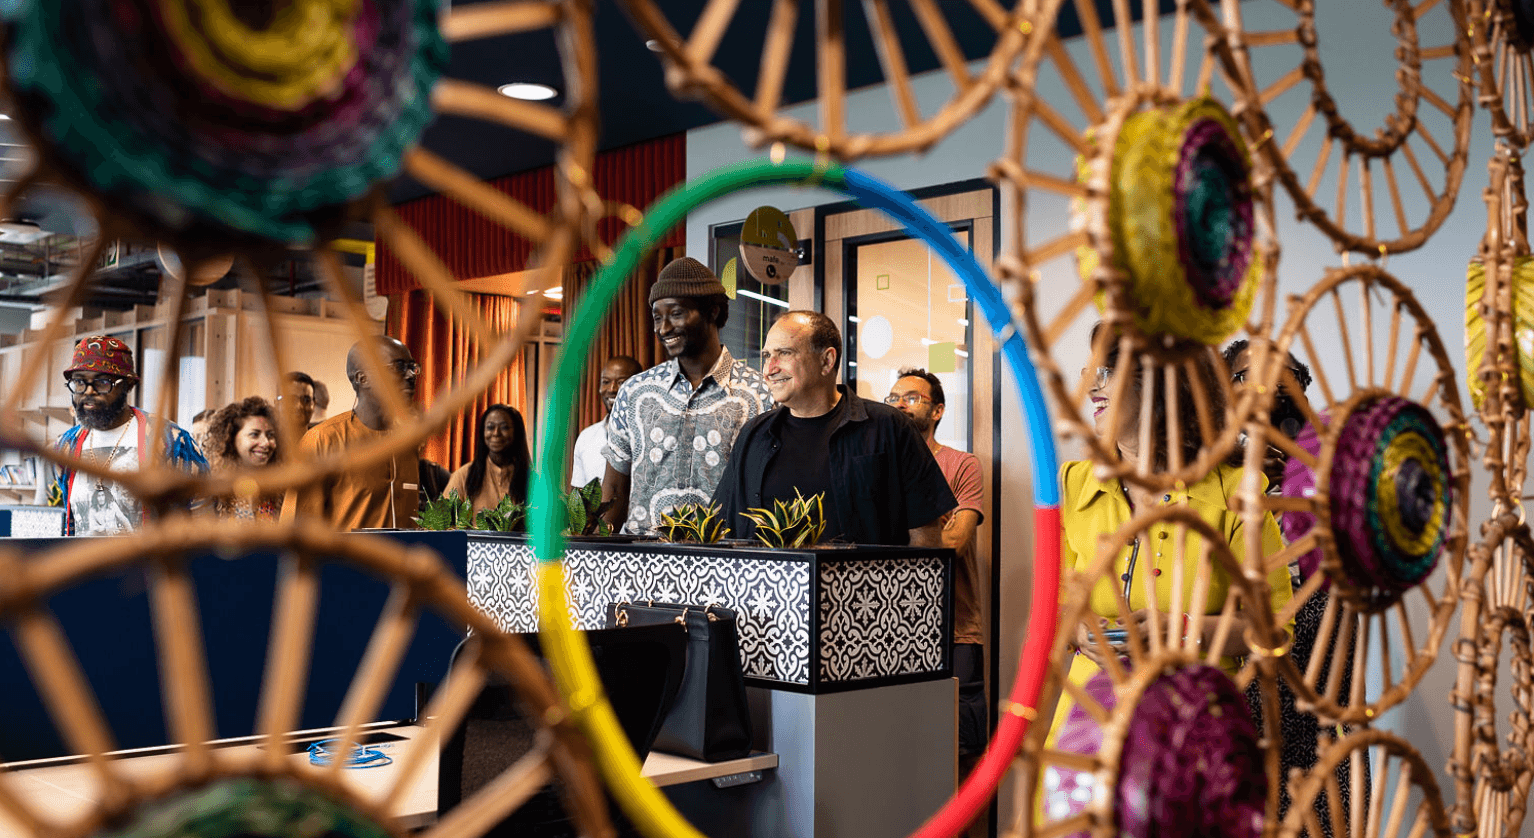
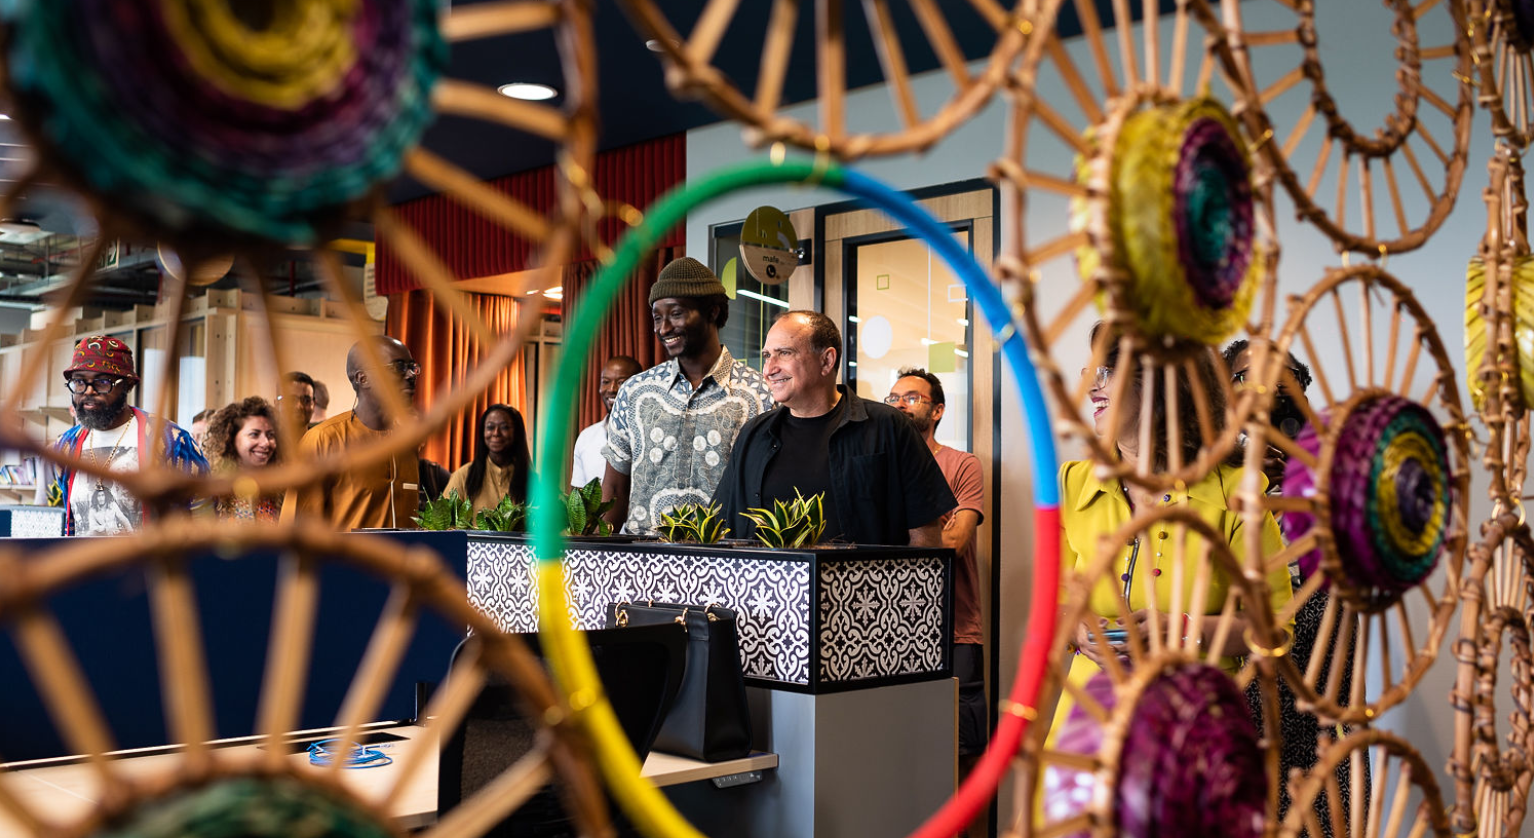
Restore crisp image quality and refine hero assets

diff --git a/app/page.tsx b/app/page.tsx
@@ -4,10 +4,8 @@ import Image from "next/image";
 import { useEffect, useRef, useState } from "react";
 
 const HERO_IMAGES = [
-  { src: "/hero%202.avif", alt: "Crowd at summit event", position: "50% 42%" },
   { src: "/hero%205.jpg", alt: "Audience and stage lighting at summit", position: "50% 40%" },
   { src: "/hero%206.png", alt: "Summit visual moment", position: "50% 46%" },
-  { src: "/hero%207.jpg", alt: "Conference audience in blue-lit venue", position: "50% 42%" },
   { src: "/hero%208.png", alt: "Networking crowd at summit", position: "50% 44%" },
 ];
 const SPONSOR_LOGOS = [
@@ -342,6 +340,8 @@ export default function Home() {
         alt={image.alt}
         fill
         sizes="100vw"
+        quality={100}
+        unoptimized
         priority={index === 0}
         style={{ objectPosition: image.position }}
       />
@@ -402,16 +402,16 @@ export default function Home() {
       {/* Right Column: TEDAI Waterfall Images */}
       <div className="waterfall-collage reveal">
         <div className="waterfall-img waterfall-img-1">
-          <Image src="/summit-speaker.png" alt="Speaker on stage at the summit" fill sizes="196px" />
+          <Image src="/summit-speaker.png" alt="Speaker on stage at the summit" fill sizes="196px" quality={95} unoptimized />
         </div>
         <div className="waterfall-img waterfall-img-2">
-          <Image src="/summit-networking.png" alt="Professionals networking at the summit" fill sizes="196px" />
+          <Image src="/summit-networking.png" alt="Professionals networking at the summit" fill sizes="196px" quality={95} unoptimized />
         </div>
         <div className="waterfall-img waterfall-img-3">
-          <Image src="/summit-stage.png" alt="Summit stage and venue" fill sizes="196px" />
+          <Image src="/summit-stage.png" alt="Summit stage and venue" fill sizes="196px" quality={95} unoptimized />
         </div>
         <div className="waterfall-img waterfall-img-4">
-          <Image src="/summit-audience.png" alt="Audience member at the summit" fill sizes="196px" />
+          <Image src="/summit-audience.png" alt="Audience member at the summit" fill sizes="196px" quality={95} unoptimized />
         </div>
       </div>
     </div>
@@ -426,7 +426,7 @@ export default function Home() {
   <div className="experience-inbound-grid">
     <div className="experience-inbound-card reveal">
       <div className="experience-inbound-card-img">
-        <Image src="/summit-speaker.png" alt="Speaker delivering a keynote on stage" fill sizes="(max-width: 900px) 100vw, 33vw" />
+        <Image src="/summit-speaker.png" alt="Speaker delivering a keynote on stage" fill sizes="(max-width: 900px) 100vw, 33vw" quality={95} unoptimized />
       </div>
       <div className="experience-inbound-card-body">
         <h3>Hear Real Stories</h3>
@@ -436,7 +436,7 @@ export default function Home() {
     </div>
     <div className="experience-inbound-card reveal reveal-delay-1">
       <div className="experience-inbound-card-img">
-        <Image src="/summit-networking.png" alt="Professionals networking at the summit" fill sizes="(max-width: 900px) 100vw, 33vw" />
+        <Image src="/summit-networking.png" alt="Professionals networking at the summit" fill sizes="(max-width: 900px) 100vw, 33vw" quality={95} unoptimized />
       </div>
       <div className="experience-inbound-card-body">
         <h3>Build Your Network</h3>
@@ -446,7 +446,7 @@ export default function Home() {
     </div>
     <div className="experience-inbound-card reveal reveal-delay-2">
       <div className="experience-inbound-card-img">
-        <Image src="/summit-audience.png" alt="Engaged audience at the summit" fill sizes="(max-width: 900px) 100vw, 33vw" />
+        <Image src="/summit-audience.png" alt="Engaged audience at the summit" fill sizes="(max-width: 900px) 100vw, 33vw" quality={95} unoptimized />
       </div>
       <div className="experience-inbound-card-body">
         <h3>Gain Practical Tools</h3>
@@ -486,7 +486,7 @@ export default function Home() {
           </p>
         </div>
         <div className="agenda-row-media">
-          <Image src="/summit-stage.png" alt="Summit stage during opening session" fill sizes="(max-width: 1024px) 100vw, 34vw" />
+          <Image src="/summit-stage.png" alt="Summit stage during opening session" fill sizes="(max-width: 1024px) 100vw, 34vw" quality={95} unoptimized />
         </div>
       </article>
 
@@ -500,7 +500,7 @@ export default function Home() {
           </p>
         </div>
         <div className="agenda-row-media">
-          <Image src="/summit-networking.png" alt="Professionals discussing ideas in a panel environment" fill sizes="(max-width: 1024px) 100vw, 34vw" />
+          <Image src="/summit-networking.png" alt="Professionals discussing ideas in a panel environment" fill sizes="(max-width: 1024px) 100vw, 34vw" quality={95} unoptimized />
         </div>
       </article>
 
@@ -514,7 +514,7 @@ export default function Home() {
           </p>
         </div>
         <div className="agenda-row-media">
-          <Image src="/summit-audience.png" alt="Audience networking and engaging at summit close" fill sizes="(max-width: 1024px) 100vw, 34vw" />
+          <Image src="/summit-audience.png" alt="Audience networking and engaging at summit close" fill sizes="(max-width: 1024px) 100vw, 34vw" quality={95} unoptimized />
         </div>
       </article>
     </div>
@@ -536,7 +536,7 @@ export default function Home() {
       {speakerCards.map((speaker, index) => (
         <div className="speaker-card speaker-card-grid" key={`${speaker.name}-${index}`}>
           <div className="speaker-photo">
-            <Image src={speaker.image} alt={speaker.alt} fill sizes="(max-width: 900px) 72vw, 33vw" />
+            <Image src={speaker.image} alt={speaker.alt} fill sizes="(max-width: 900px) 72vw, 33vw" quality={95} unoptimized />
             <div className="speaker-overlay">
               <div className="speaker-name">{speaker.name}</div>
               <div className="speaker-role">{speaker.role}</div>
@@ -558,7 +558,7 @@ export default function Home() {
       <div className="speakers-track">
         <div className="speaker-card speaker-card-side">
           <div className="speaker-photo">
-            <Image src={leftSpeaker.image} alt={leftSpeaker.alt} fill sizes="(max-width: 900px) 72vw, 33vw" />
+            <Image src={leftSpeaker.image} alt={leftSpeaker.alt} fill sizes="(max-width: 900px) 72vw, 33vw" quality={95} unoptimized />
             <div className="speaker-overlay">
               <div className="speaker-name">{leftSpeaker.name}</div>
               <div className="speaker-role">{leftSpeaker.role}</div>
@@ -578,7 +578,7 @@ export default function Home() {
           }`}
         >
           <div className="speaker-photo">
-            <Image src={centerSpeaker.image} alt={centerSpeaker.alt} fill sizes="(max-width: 900px) 72vw, 33vw" />
+            <Image src={centerSpeaker.image} alt={centerSpeaker.alt} fill sizes="(max-width: 900px) 72vw, 33vw" quality={95} unoptimized />
             <div className="speaker-overlay">
               <div className="speaker-name">{centerSpeaker.name}</div>
               <div className="speaker-role">{centerSpeaker.role}</div>
@@ -588,7 +588,7 @@ export default function Home() {
 
         <div className="speaker-card speaker-card-side">
           <div className="speaker-photo">
-            <Image src={rightSpeaker.image} alt={rightSpeaker.alt} fill sizes="(max-width: 900px) 72vw, 33vw" />
+            <Image src={rightSpeaker.image} alt={rightSpeaker.alt} fill sizes="(max-width: 900px) 72vw, 33vw" quality={95} unoptimized />
             <div className="speaker-overlay">
               <div className="speaker-name">{rightSpeaker.name}</div>
               <div className="speaker-role">{rightSpeaker.role}</div>

diff --git a/app/globals.css b/app/globals.css
@@ -1669,6 +1669,7 @@ summary:focus-visible {
 }
 
 .agenda-row-media {
+  position: relative;
   width: 100%;
   aspect-ratio: 16 / 9;
   border-radius: 4px;
@@ -4464,7 +4465,7 @@ summary:focus-visible {
   .hero-ctas {
     width: 100%;
     margin-top: auto;
-    margin-bottom: calc(env(safe-area-inset-bottom) + 10px);
+    margin-bottom: calc(env(safe-area-inset-bottom) + 22px);
   }
 }
 
